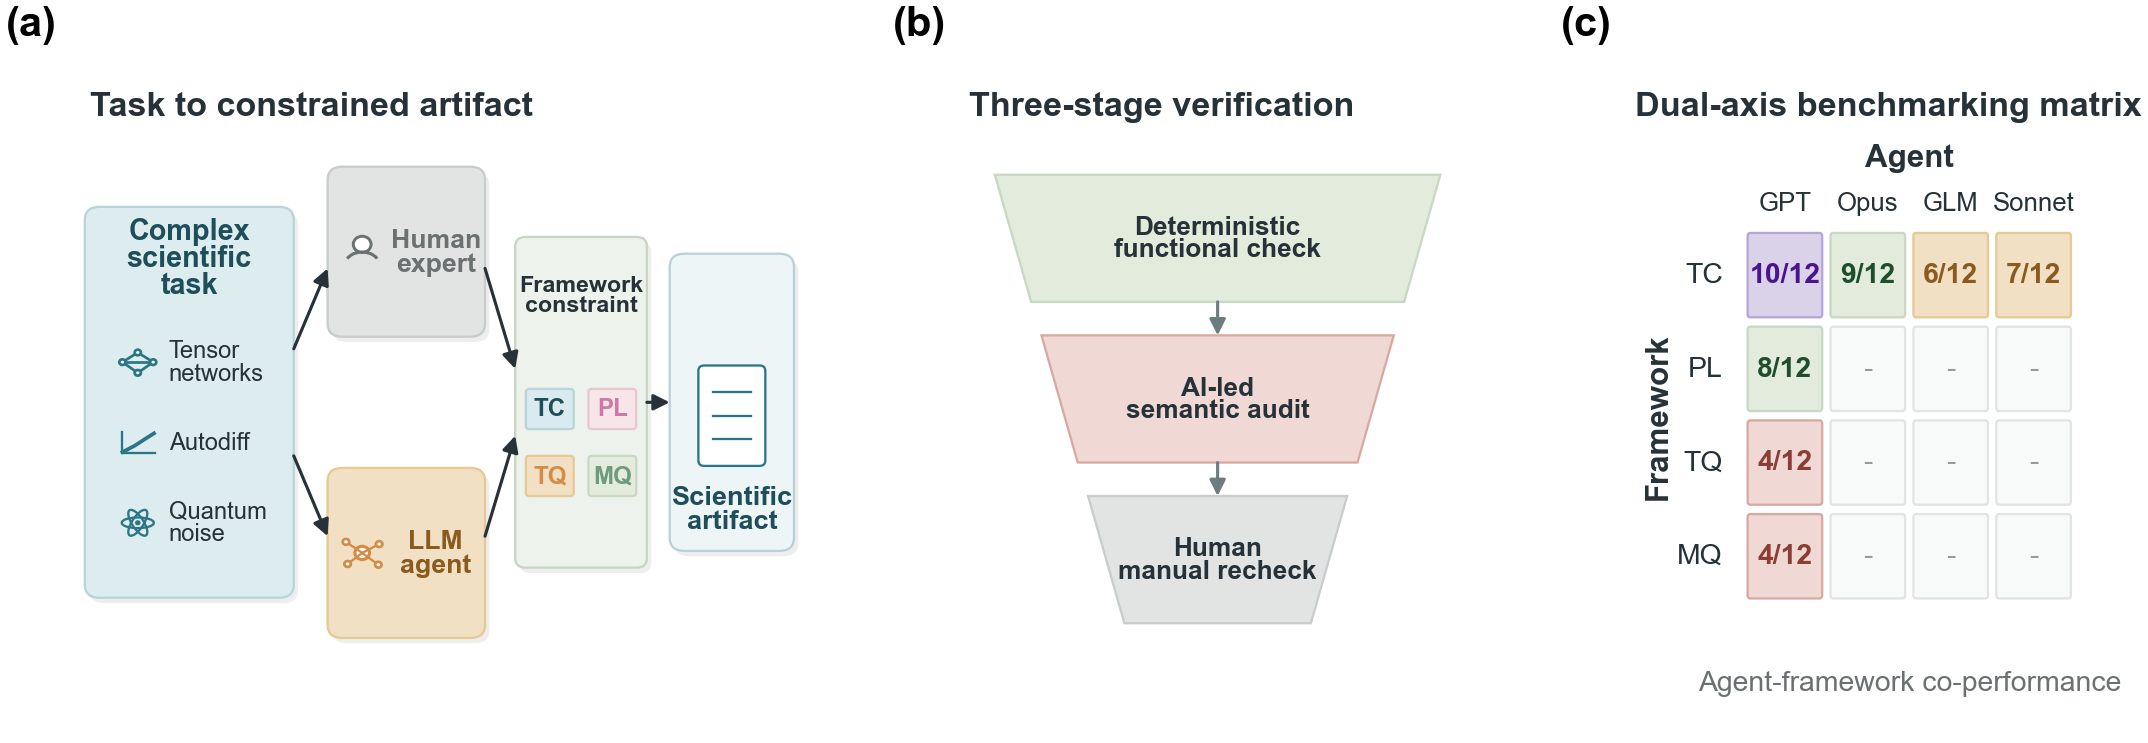
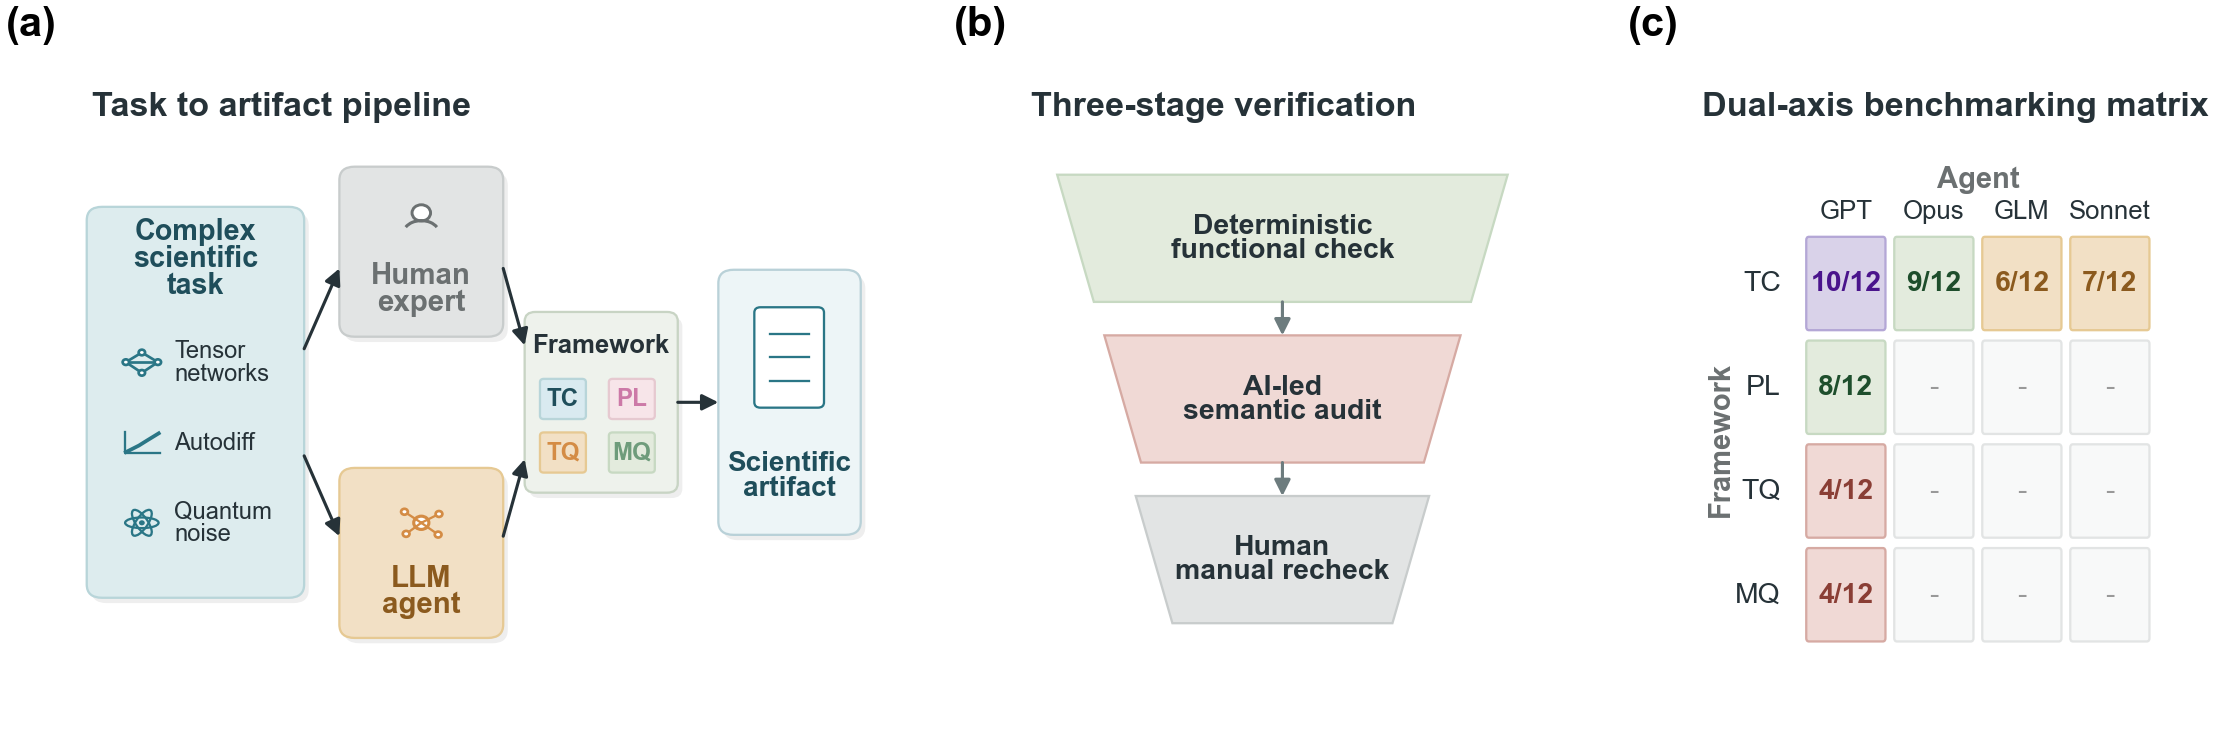
update readme

diff --git a/README.md b/README.md
@@ -26,12 +26,11 @@ The benchmark currently evaluates two orthogonal axes:
 
 ![Dual-axis benchmark results](assets/fig2_dual_axis_scatter.png)
 
-ORBIT-Q is intentionally not saturated.
 The current results show clear separation across both benchmark axes, with visible gaps in validity and artifact runtime relative to expert TensorCircuit-NG implementations.
 
 ### Framework Axis
 
-The framework axis holds the agent configuration fixed and varies the required quantum software framework.
+The framework axis holds the agent configuration fixed and varies the required quantum software framework (TensorCircuit-NG: TC; Pennylane: PL; MindQuantum: MQ; TorchQuantum: TQ).
 This view measures agent-framework co-performance: native primitive coverage, differentiable workflow support, performance pathways, API discoverability, and how naturally an autonomous agent can compose those pieces into a valid scientific artifact.
 
 ### Agent Axis
@@ -298,11 +297,10 @@ Until then, use:
   title        = {ORBIT-Q: Dual-axis benchmarking of autonomous agents in scientific quantum programming},
   author       = {Zhang, Shi-Xin and Chen, Yu-Qin},
   year         = {2026},
-  note         = {Manuscript in preparation}
+  note         = {Manuscript to appear soon}
 }
 ```
 
 ## License
 
 This repository is distributed under the Apache License 2.0.
-See `LICENCE`.